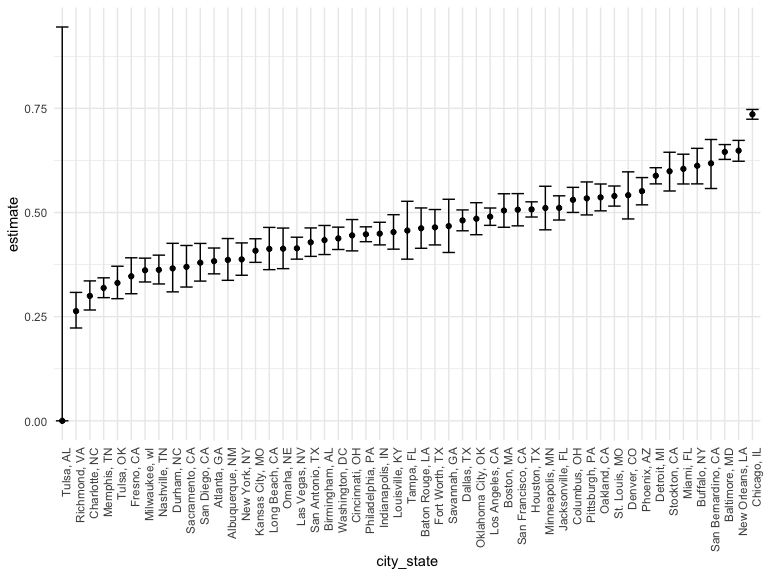
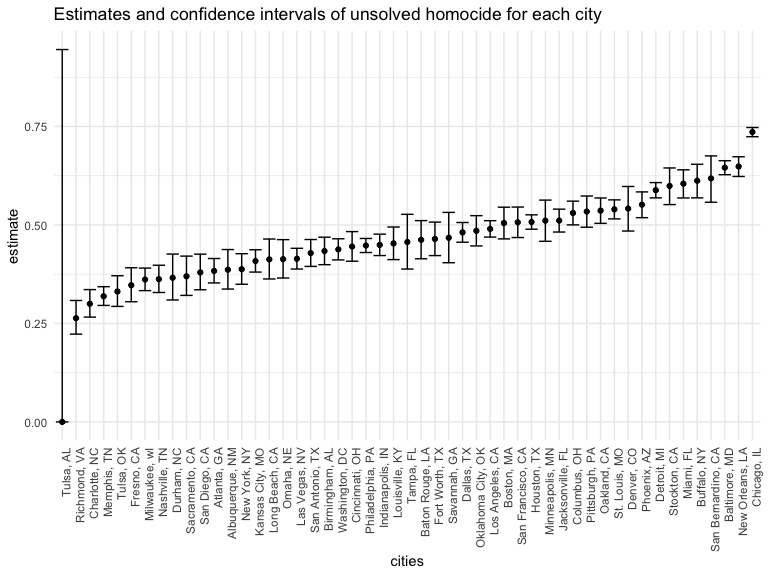
create function

diff --git a/p8105_hw5_yc4016.md b/p8105_hw5_yc4016.md
@@ -157,9 +157,28 @@ plot_each_cities =
   ggplot(aes(x = city_state, y = estimate)) +
   geom_point() +
   theme(axis.text.x = element_text(angle = 90, hjust = 1)) +
-  geom_errorbar(aes(ymin = conf_low, ymax = conf_high))
-
+  geom_errorbar(aes(ymin = conf_low, ymax = conf_high)) +
+  labs(title = "Estimates and confidence intervals of unsolved homocide for each city",x = "cities") 
 plot_each_cities
 ```
 
 <img src="p8105_hw5_yc4016_files/figure-gfm/unnamed-chunk-5-1.png" width="90%" />
+
+# Problem 3
+
+``` r
+sim_mean_p = function(n=30, mu, sigma = 5) {
+  sim_data = tibble(x = rnorm(n, mean = mu, sd = sigma))
+  sim_data %>% 
+    t.test (mu = 0, alpha = 0.05, conf.level = 0.95) %>% 
+     broom::tidy ()
+}
+sim_mean_p
+```
+
+    ## function(n=30, mu, sigma = 5) {
+    ##   sim_data = tibble(x = rnorm(n, mean = mu, sd = sigma))
+    ##   sim_data %>% 
+    ##     t.test (mu = 0, alpha = 0.05, conf.level = 0.95) %>% 
+    ##      broom::tidy ()
+    ## }
